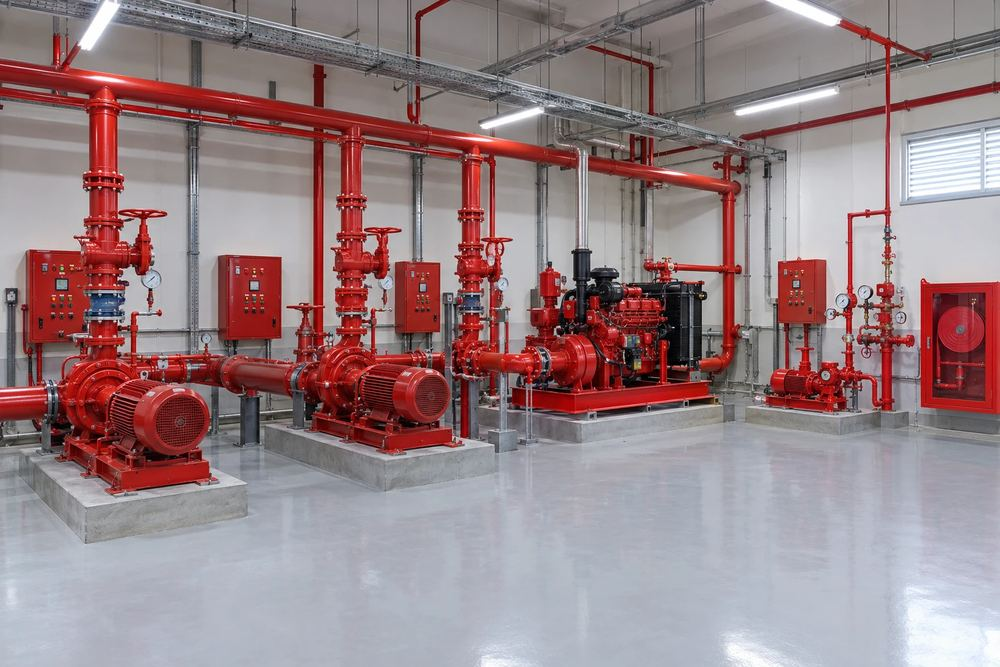
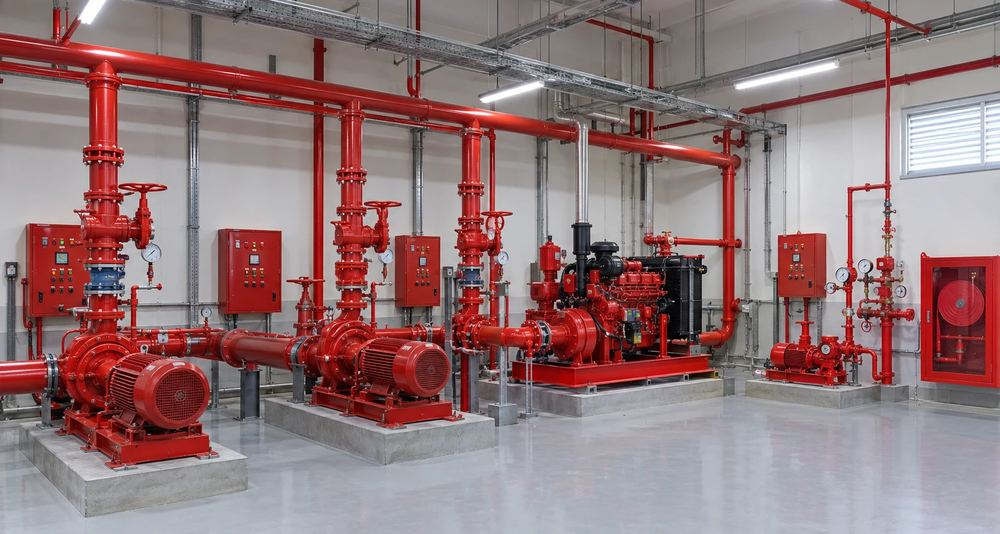
Crop most of the empty floor out of the Fire Fighting card
The pump room image loses the bare floor below the pump bases and a
little ceiling, so the pumps and panels fill the card. Its src gains
?v=2 so browsers holding the first version fetch this one.

diff --git a/index.html b/index.html
@@ -330,7 +330,7 @@
 
       <div class="dcard reveal d2">
         <div class="dimg">
-          <img src="photos/group/divisions/div-fire-fighting-card.jpg" alt="" onerror="this.onerror=null;this.src='fire-fighting/photos/mot-hydrant-pump.jpg'" loading="lazy" />
+          <img src="photos/group/divisions/div-fire-fighting-card.jpg?v=2" alt="" onerror="this.onerror=null;this.src='fire-fighting/photos/mot-hydrant-pump.jpg'" loading="lazy" />
         </div>
         <div class="dhead"><h3>Fire Fighting</h3><div class="co">End-to-end fire-protection systems, pumps &amp; hydrants</div><a class="vbtn" href="fire-fighting/">Visit site <svg viewBox="0 0 24 24"><path d="M5 12h14M13 6l6 6-6 6"/></svg></a></div>
       </div>
